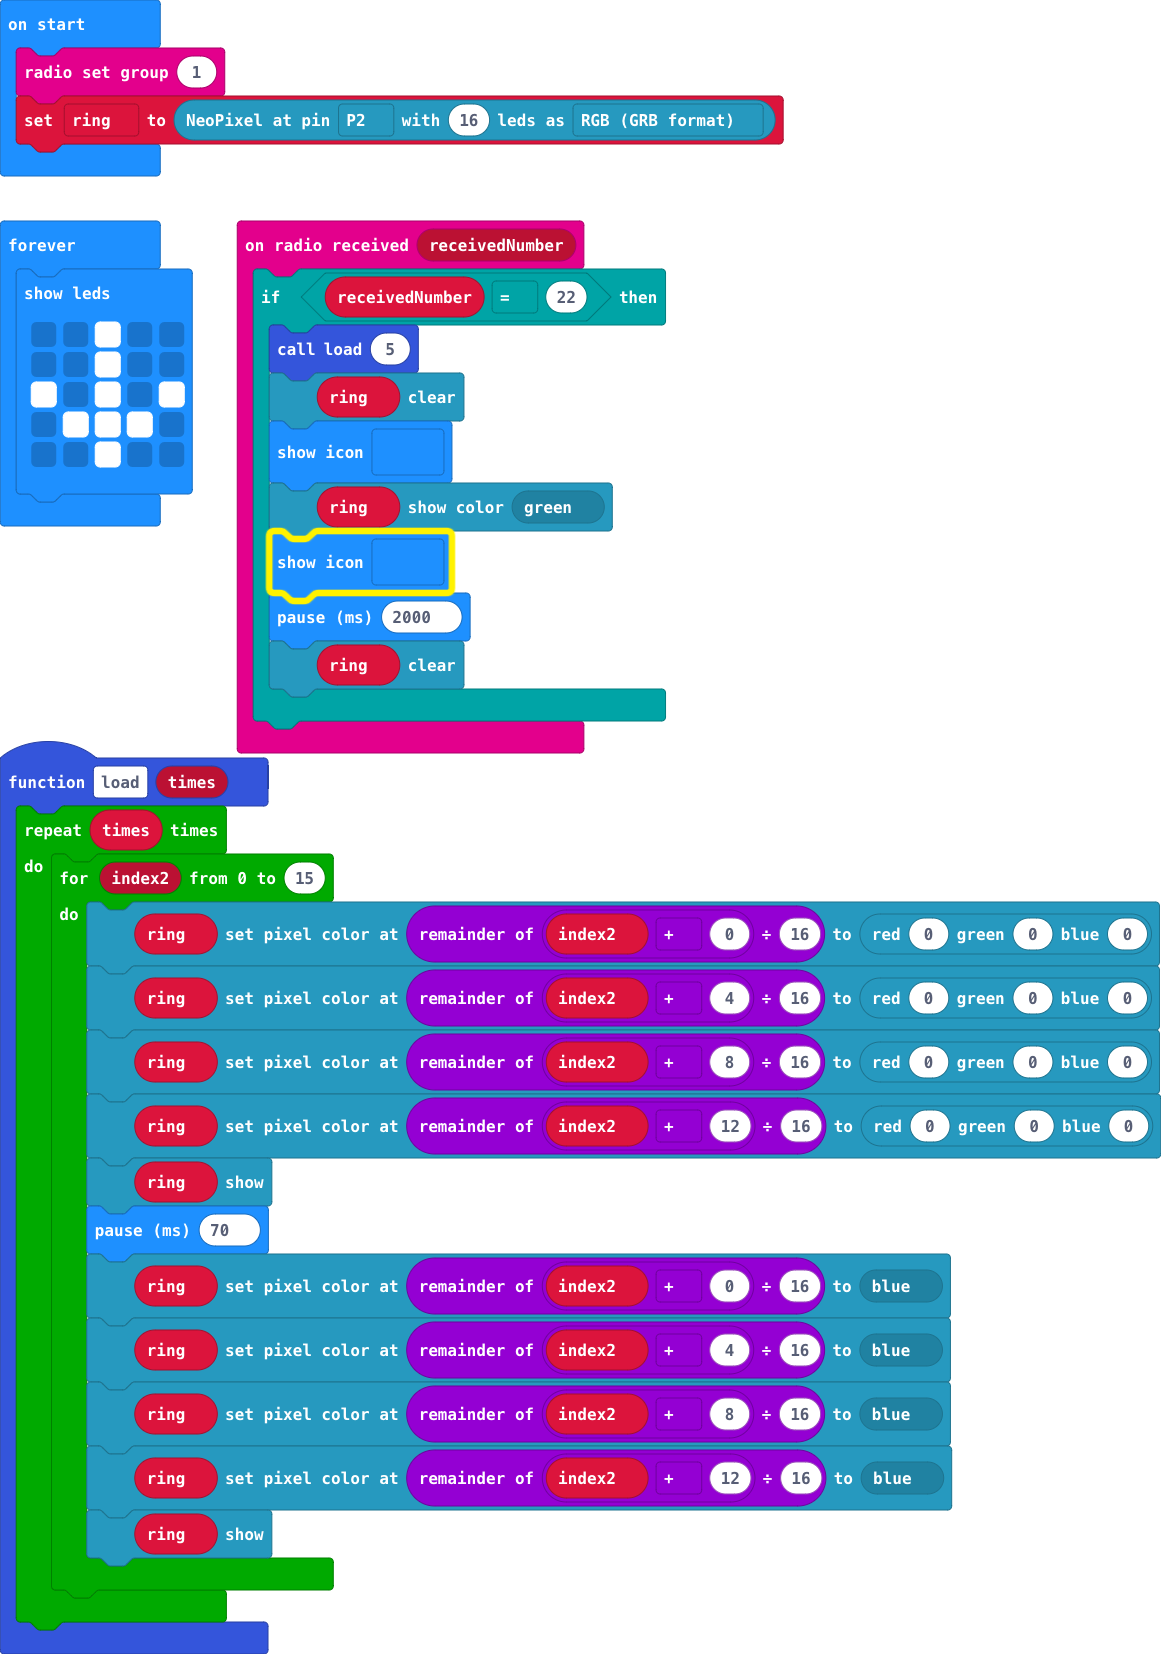
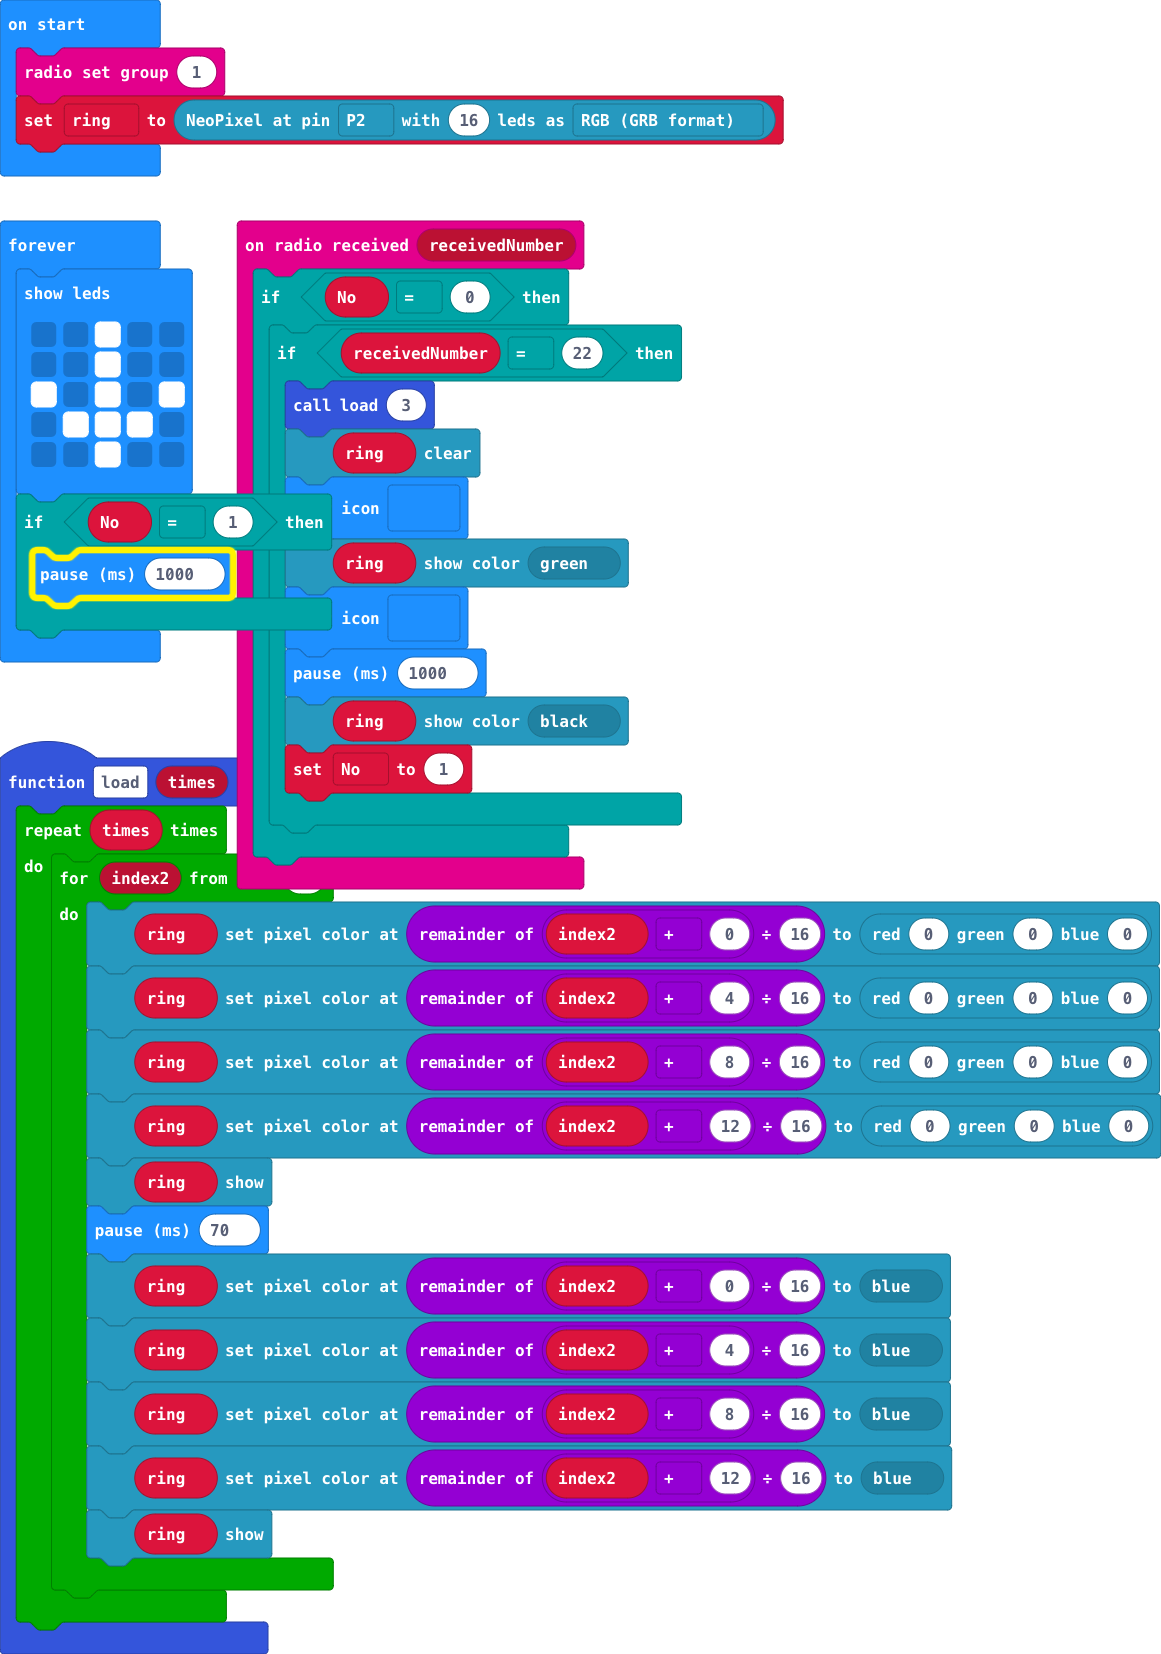
Update main.blocks, main.ts

Changed region(s): [[0.0, 0.1542, 0.5891, 0.555]]

diff --git a/main.ts b/main.ts
@@ -1,12 +1,15 @@
 radio.onReceivedNumber(function (receivedNumber) {
-    if (receivedNumber == 22) {
-        load(5)
-        ring.clear()
-        basic.showIcon(IconNames.Yes)
-        ring.showColor(neopixel.colors(NeoPixelColors.Green))
-        basic.showIcon(IconNames.Yes)
-        basic.pause(2000)
-        ring.clear()
+    if (No == 0) {
+        if (receivedNumber == 22) {
+            load(3)
+            ring.clear()
+            basic.showIcon(IconNames.Yes)
+            ring.showColor(neopixel.colors(NeoPixelColors.Green))
+            basic.showIcon(IconNames.Yes)
+            basic.pause(1000)
+            ring.showColor(neopixel.colors(NeoPixelColors.Black))
+            No = 1
+        }
     }
 })
 function load (times: number) {
@@ -26,6 +29,7 @@ function load (times: number) {
         }
     }
 }
+let No = 0
 let ring: neopixel.Strip = null
 radio.setGroup(1)
 ring = neopixel.create(DigitalPin.P2, 16, NeoPixelMode.RGB)
@@ -37,4 +41,7 @@ basic.forever(function () {
         . # # # .
         . . # . .
         `)
+    if (No == 1) {
+        basic.pause(1000)
+    }
 })
